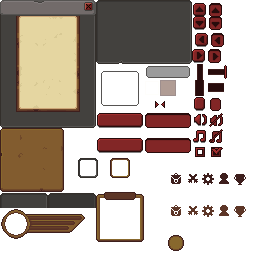
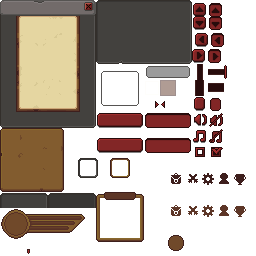
feat: retrato com busto sem animacao, fundo do anel e municao do arqueiro em pinos
Busto centralizado pela silhueta da cabeca e recortado pela abertura do anel; pinos proporcionais a aljava substituem a barra antiga.

diff --git a/client/hud_handlers.py b/client/hud_handlers.py
@@ -37,27 +37,9 @@ class HudHandlers:
             coord_surf = self.font_sm.render(coord_txt, False, (180, 180, 180))
             self.screen.blit(coord_surf, (self.screen.get_width() - coord_surf.get_width() - self._u(10), self._u(10)))
 
-        # --- Retrato (atlas, 3x): rosto + Vida / recurso / XP nas ranhuras ---
+        # --- Retrato (atlas, 3x): busto + Vida / recurso / XP nas ranhuras
+        #     (+ pinos de munição embaixo da faixa, só arqueiro) ---
         y = self._draw_portrait(combat_stats, char_stats)
-        bar_w = self._u(UI.HUD_BAR_W)
-        bar_h = self._u(UI.HUD_BAR_H)
-
-        # --- Aljava do arqueiro (fora do retrato — 3ª ranhura é a XP) ---
-        if char_stats and char_stats.class_id == "arqueiro":
-            from engine.components import Equipment as _EqHUD
-            _eq_hud = self.world.get_component(self.player_entity, _EqHUD)
-            _quiver = _eq_hud.slots.get("offhand") if _eq_hud else None
-            if _quiver and getattr(_quiver, "item_type", "") == "quiver":
-                _arrow_ratio = max(0.0, min(1.0, _quiver.arrow_count / max(1, _quiver.max_arrows)))
-                pygame.draw.rect(self.screen, (40, 30, 10),  (self._u(10), y, bar_w, bar_h))
-                pygame.draw.rect(self.screen, (200, 160, 60), (self._u(10), y, int(bar_w * _arrow_ratio), bar_h))
-                arrow_surf = self.font_sm.render(
-                    f"Aljava {_quiver.arrow_count}/{_quiver.max_arrows}", False, C_WHITE)
-                self.screen.blit(arrow_surf, (self._u(14), y))
-            else:
-                no_q_surf = self.font_sm.render("Sem aljava", False, (180, 130, 50))
-                self.screen.blit(no_q_surf, (self._u(14), y))
-            y += self._u(18)
 
         # --- Ataque CD ---
         if combat_stats.attack_cooldown_timer > 0:
@@ -198,30 +180,57 @@ class HudHandlers:
         vals.append(("xp", "Experiência", cs.current_xp, cs.xp_to_next_level))
         return vals
 
-    def _portrait_face(self, cs, r: int) -> "pygame.Surface | None":
-        """Rosto: quadrado 2r x 2r recortado da cabeça do frame idle de
-        frente, com máscara redonda (cabe na abertura do anel)."""
+    def _portrait_face(self, cs) -> "pygame.Surface | None":
+        """Busto do personagem já recortado na abertura do anel (camada do
+        tamanho da peça do retrato). Sem animação: 1º frame do idle de
+        frente (pedido do usuário). Cabeça centralizada na abertura pelo
+        próprio desenho do frame (colunas da cabeça), topo da cabeça a
+        PORTRAIT_BUST_TOP px do topo da abertura — mostra o que couber do
+        busto."""
         if cs is None:
             return None
+        key = ("bust", cs.class_id)
+        layer = self._portrait_cache.get(key)
+        if layer is not None:
+            return layer
         from engine.character_animation import get_character_frame
-        frame = get_character_frame(cs.class_id, "idle", "down", pygame.time.get_ticks())
+        from ui import ui_atlas
+        frame = get_character_frame(cs.class_id, "idle", "down", 0)
         if frame is None:
             return None
-        key = ("face", id(frame), r)
-        face = self._portrait_cache.get(key)
-        if face is None:
-            fw, fh = frame.get_size()
-            cx, cy = fw // 2, fh // 2 - fh // 8          # cabeça: um pouco acima do centro do frame
-            src = pygame.Rect(cx - r, cy - r, 2 * r, 2 * r).clip(frame.get_rect())
-            face = pygame.Surface((2 * r, 2 * r), pygame.SRCALPHA)
-            face.blit(frame, (0, 0), src)
-            mask = pygame.Surface((2 * r, 2 * r), pygame.SRCALPHA)
-            pygame.draw.circle(mask, (255, 255, 255, 255), (r, r), r)
-            face.blit(mask, (0, 0), special_flags=pygame.BLEND_RGBA_MIN)
-            if len(self._portrait_cache) > 64:
-                self._portrait_cache.clear()
-            self._portrait_cache[key] = face
-        return face
+        fw, fh = frame.get_size()
+        rows = [y for y in range(fh) if any(frame.get_at((x, y))[3] for x in range(fw))]
+        if not rows:
+            return None
+        head_top = rows[0]
+        head_cols = [x for x in range(fw)
+                     if any(frame.get_at((x, y))[3] for y in range(head_top, min(fh, head_top + 12)))]
+        head_cx = (head_cols[0] + head_cols[-1] + 1) / 2
+        mask = ui_atlas.portrait_opening_mask()
+        mb = mask.get_bounding_rect()
+        layer = pygame.Surface(mask.get_size(), pygame.SRCALPHA)
+        layer.blit(frame, (round(mb.centerx - head_cx), mb.top + ui_atlas.PORTRAIT_BUST_TOP - head_top))
+        layer.blit(mask, (0, 0), special_flags=pygame.BLEND_RGBA_MIN)
+        self._portrait_cache[key] = layer
+        return layer
+
+    def _portrait_ammo(self, cs) -> "tuple | None":
+        """(pinos, flechas, máximo) da aljava do arqueiro; None pra outras
+        classes. Pinos = proporção da aljava × PORTRAIT_AMMO_MAX (não é a
+        contagem exata — pedido do usuário)."""
+        if cs is None or cs.class_id != "arqueiro":
+            return None
+        from engine.components import Equipment as _EqAmmo
+        from ui import ui_atlas
+        eq = self.world.get_component(self.player_entity, _EqAmmo)
+        quiver = eq.slots.get("offhand") if eq else None
+        if not quiver or getattr(quiver, "item_type", "") != "quiver":
+            return (0, 0, 0)
+        ratio = max(0.0, min(1.0, quiver.arrow_count / max(1, quiver.max_arrows)))
+        pins = round(ratio * ui_atlas.PORTRAIT_AMMO_MAX)
+        if pins == 0 and quiver.arrow_count > 0:
+            pins = 1      # ainda tem flecha: nunca mostra a aljava vazia
+        return (pins, quiver.arrow_count, quiver.max_arrows)
 
     def _draw_portrait(self, combat_stats, cs) -> int:
         """Desenha o retrato no canto superior esquerdo; devolve o y logo
@@ -235,20 +244,24 @@ class HudHandlers:
         vals = self._portrait_values(combat_stats, cs)
         fills = tuple(round(g[2] * max(0.0, min(1.0, cur / max(1, mx))))
                       for g, (_k, _l, cur, mx) in zip(grooves, vals))
-        fcx, fcy, fr = ui_atlas.PORTRAIT_FACE
-        face = self._portrait_face(cs, fr)
-        key = ("portrait", fills, tuple(k for k, *_ in vals), id(face))
+        face = self._portrait_face(cs)
+        ammo = self._portrait_ammo(cs)
+        key = ("portrait", fills, tuple(k for k, *_ in vals), id(face), ammo[0] if ammo else None)
         cached = self._portrait_cache.get("portrait")
         if cached is None or cached[0] != key:
-            raw = pygame.Surface((w, h), pygame.SRCALPHA)
+            raw = piece.copy()                      # já traz o fundo do círculo
             if face is not None:
-                raw.blit(face, (fcx - fr, fcy - fr))
-            raw.blit(piece, (0, 0))
+                raw.blit(face, (0, 0))              # busto só dentro da abertura do anel
             for (gx, gy, gw, gh), (ck, *_), fw in zip(grooves, vals, fills):
                 if fw > 0:
                     top, base = self._PORTRAIT_FILL[ck]
                     raw.fill(top, (gx, gy, fw, 1))
                     raw.fill(base, (gx, gy + 1, fw, gh - 1))
+            if ammo and ammo[0] > 0:
+                pin = ui_atlas.piece_raw(ui_atlas.PORTRAIT_AMMO_PIN)
+                px0, py0 = ui_atlas.PORTRAIT_AMMO_POS
+                for i in range(ammo[0]):
+                    raw.blit(pin, (px0 + i * ui_atlas.PORTRAIT_AMMO_STEP, py0))
             cached = (key, pygame.transform.scale(raw, (w * K, h * K)))
             self._portrait_cache["portrait"] = cached
         self.screen.blit(cached[1], (x0, y0))
@@ -271,6 +284,13 @@ class HudHandlers:
                     if _rate > 0:
                         lines.append((f"+{_rate:.0f}/s", (200, 200, 200)))
                 self._pending_tooltip = (mx_, my_, f"{label}: {cur}/{mx}", lines)
+        if ammo is not None:
+            px0, py0 = ui_atlas.PORTRAIT_AMMO_POS
+            pw = (ui_atlas.PORTRAIT_AMMO_MAX - 1) * ui_atlas.PORTRAIT_AMMO_STEP + ui_atlas.PORTRAIT_AMMO_PIN[2]
+            hit = pygame.Rect(x0 + px0 * K, y0 + py0 * K, pw * K, ui_atlas.PORTRAIT_AMMO_PIN[3] * K)
+            if hit.collidepoint(mx_, my_):
+                title = f"Aljava: {ammo[1]}/{ammo[2]}" if ammo[2] else "Sem aljava"
+                self._pending_tooltip = (mx_, my_, title, [])
         return y0 + h * K + self._u(6)
 
     # ------------------------------------------------------------------

diff --git a/ui/ui_atlas.py b/ui/ui_atlas.py
@@ -312,8 +312,14 @@ MINIMAP_ICON_COUNT = 5
 MINIMAP_ICON_NUDGE = {1: (-1, 1)}       # ajuste fino por ícone (px RAW) medido no esboço — espadas 1px pra esquerda/baixo
 MINIMAP_ICON_DY   = 8                    # topo da célula do círculo = altura da moldura − 8 (círculo começa 4px acima da linha de baixo — medido no esboço exemplo_minimapa.png)
 PORTRAIT          = (0, 208, 88, 32)     # anel do retrato + faixa com 3 ranhuras
-PORTRAIT_FACE     = (16, 16, 10)         # centro x/y e raio da abertura do anel, px RAW na peça
+PORTRAIT_FACE     = (16, 16)             # um ponto DENTRO da abertura do anel (semente do preenchimento)
 PORTRAIT_SCALE    = 3                    # retrato desenhado em 3x (decisão do usuário: ranhuras legíveis)
+PORTRAIT_BUST_TOP = 2                    # px entre o topo da abertura e o topo da cabeça
+# Munição do arqueiro: "pinos" pendurados embaixo da faixa (exemplo_munição.png)
+PORTRAIT_AMMO_PIN  = (27, 249, 3, 5)     # 1 pino (contorno compartilhado com o vizinho)
+PORTRAIT_AMMO_POS  = (27, 25)            # 1º pino na peça do retrato (px RAW)
+PORTRAIT_AMMO_STEP = 2
+PORTRAIT_AMMO_MAX  = 18                  # aljava cheia = 18 pinos (proporcional, não a contagem exata)
 
 
 def piece_raw(rect: tuple) -> "pygame.Surface":
@@ -383,6 +389,35 @@ def portrait_grooves() -> list:
                 grooves.append(cur)
         _portrait_grooves = grooves[:3]
     return _portrait_grooves
+
+
+_portrait_opening: "pygame.Surface | None" = None
+
+
+def portrait_opening_mask() -> "pygame.Surface":
+    """Máscara (alpha 255 dentro) da abertura do anel do retrato: região
+    da cor de fundo do círculo ligada à semente PORTRAIT_FACE — medida do
+    próprio atlas (preenchimento), nunca um círculo fixo, pra o rosto
+    nunca cobrir a borda do anel."""
+    global _portrait_opening
+    if _portrait_opening is None:
+        src = piece_raw(PORTRAIT)
+        w, h = src.get_size()
+        sx, sy = PORTRAIT_FACE
+        bg = tuple(src.get_at((sx, sy)))
+        mask = pygame.Surface((w, h), pygame.SRCALPHA)
+        seen, stack = set(), [(sx, sy)]
+        while stack:
+            x, y = stack.pop()
+            if (x, y) in seen or not (0 <= x < w and 0 <= y < h):
+                continue
+            seen.add((x, y))
+            if tuple(src.get_at((x, y))) != bg:
+                continue
+            mask.set_at((x, y), (255, 255, 255, 255))
+            stack += [(x + 1, y), (x - 1, y), (x, y + 1), (x, y - 1)]
+        _portrait_opening = mask
+    return _portrait_opening
 
 
 HUD_SLOT_RAW = 32 + 2 * HUD_SLOT_BORDER   # moldura de slot da hotbar: ícone 32x32 + borda (decisão do usuário)

diff --git a/tests/test_hud_atlas.py b/tests/test_hud_atlas.py
@@ -118,3 +118,39 @@ def test_pecas_do_atlas_estao_onde_o_codigo_espera():
         for lit in (False, True):
             ic = ui_atlas.minimap_icon_raw(i, lit)
             assert any(ic.get_at((x, y))[3] for x in range(16) for y in range(16)), (i, lit)
+
+
+def test_abertura_do_anel_nao_inclui_a_borda():
+    m = ui_atlas.portrait_opening_mask()
+    src = ui_atlas.piece_raw(ui_atlas.PORTRAIT)
+    bg = tuple(src.get_at(ui_atlas.PORTRAIT_FACE))
+    inside = [(x, y) for x in range(m.get_width()) for y in range(m.get_height()) if m.get_at((x, y))[3]]
+    assert len(inside) > 200                                   # abertura de ~20px de diâmetro
+    assert all(tuple(src.get_at(p)) == bg for p in inside)     # só o fundo do círculo, nunca o anel
+    assert max(x for x, _ in inside) < 27                      # não vaza pra faixa
+
+
+def test_pinos_de_municao_sao_proporcionais():
+    import client.hud_handlers as hh
+    from engine.world import World
+    from engine.components import CharacterStats, Equipment, Item
+
+    class _Fx(hh.HudHandlers):
+        def __init__(self, cls, arrows, max_arrows=40):
+            self.world = World()
+            self.player_entity = self.world.create_entity()
+            self.world.add_component(self.player_entity, CharacterStats(name="A", class_id=cls))
+            eq = Equipment()
+            if max_arrows:
+                q = Item("Aljava", "quiver", "offhand")
+                q.item_type, q.arrow_count, q.max_arrows = "quiver", arrows, max_arrows
+                eq.slots["offhand"] = q
+            self.world.add_component(self.player_entity, eq)
+
+    cs = lambda fx: fx.world.get_component(fx.player_entity, CharacterStats)
+    full = _Fx("arqueiro", 40); assert full._portrait_ammo(cs(full))[0] == ui_atlas.PORTRAIT_AMMO_MAX
+    half = _Fx("arqueiro", 20); assert half._portrait_ammo(cs(half))[0] == ui_atlas.PORTRAIT_AMMO_MAX // 2
+    one = _Fx("arqueiro", 1); assert one._portrait_ammo(cs(one))[0] == 1      # ainda tem flecha
+    empty = _Fx("arqueiro", 0); assert empty._portrait_ammo(cs(empty))[0] == 0
+    none = _Fx("arqueiro", 0, max_arrows=0); assert none._portrait_ammo(cs(none)) == (0, 0, 0)
+    mage = _Fx("mago", 10); assert mage._portrait_ammo(cs(mage)) is None

diff --git a/arquitetura/HISTORICO_FEATURES.md b/arquitetura/HISTORICO_FEATURES.md
@@ -5889,3 +5889,26 @@ breve") / ranking; aceso = botão apertado OU janela aberta.
   buff bar 16px à esquerda do mapa.
 
 **Teste**: `tests/test_hud_atlas.py`. Validação em jogo pendente.
+
+## 76. Retrato: busto sem animação, fundo do anel e munição do arqueiro em pinos (22/10/2026)
+
+Retorno do usuário sobre §75: cabeça mal centralizada no retrato; sem
+animação (só o 1º frame do idle); mostrar o busto (o que couber no anel);
+fundo novo do círculo no atlas; elemento novo de munição (pino em
+(27,249), exemplo em `assets/content/exemplo_munição.png`).
+
+- Busto: `client/hud_handlers.py::_portrait_face` — 1º frame do idle de
+  frente, cabeça centralizada pela própria silhueta (colunas das 12
+  primeiras linhas), topo da cabeça a `PORTRAIT_BUST_TOP` do topo da
+  abertura; recortado pela máscara da abertura do anel
+  (`ui_atlas.portrait_opening_mask`, preenchimento a partir de
+  `PORTRAIT_FACE` sobre a cor de fundo do círculo — nunca cobre o anel).
+  Cacheado por classe (sem animação = 1 montagem só).
+- Munição (só arqueiro): pinos pendurados embaixo da faixa (posição/passo
+  medidos no exemplo: 1º em (27,25) da peça, de 2 em 2px, 18 = aljava
+  cheia). Quantidade PROPORCIONAL à aljava (`round(flechas/máx × 18)`,
+  mínimo 1 enquanto houver flecha); tooltip com o número exato ou "Sem
+  aljava". Substitui a barra de aljava antiga abaixo do retrato.
+
+**Teste**: `tests/test_hud_atlas.py` (abertura do anel, pinos
+proporcionais).

diff --git a/arquitetura/ATLAS_UI.md b/arquitetura/ATLAS_UI.md
@@ -119,7 +119,8 @@ inteira desloca meio tile quando a sobra é ímpar; HISTORICO_BUGS.md §98).
 
 | Peça | Atlas (px) | Constante | Uso |
 |---|---|---|---|
-| Retrato | (0,208) 88x32 | `PORTRAIT` | Anel + faixa com 3 ranhuras (Vida/recurso/XP), desenhado em 3x; ranhuras medidas por `portrait_grooves()`. |
+| Retrato | (0,208) 88x32 | `PORTRAIT` | Anel (com fundo) + faixa com 3 ranhuras (Vida/recurso/XP), desenhado em 3x; ranhuras por `portrait_grooves()`, abertura do anel por `portrait_opening_mask()`. |
+| Pino de munição | (27,249) 3x5 | `PORTRAIT_AMMO_PIN` | Arqueiro: pinos embaixo da faixa a partir de (27,25) da peça, passo 2px, 18 = aljava cheia (proporcional). |
 | Moldura do minimapa | (96,192) 48x50 | `MINIMAP_FRAME` | Barra do nome embutida no topo; cresce por `stretch_raw` (coluna 24 / linha 28 repetidas). |
 | Círculo dos ícones | (168,232) 16x19 | `MINIMAP_ICON_CIRCLE` | Fundo de cada ícone; célula no topo = altura da moldura − 8 (círculo 4px acima da linha de baixo, medido no esboço). Ícone na mesma célula; espadas com ajuste fino `MINIMAP_ICON_NUDGE`. |
 | Ícones do minimapa | (168,168) / (168,200) | `MINIMAP_ICON_ROWS` | 5 células de 16px: apagados / acesos (bolsa, espadas, engrenagem, pessoa, troféu). |

diff --git a/arquitetura/INDICE.md b/arquitetura/INDICE.md
@@ -329,3 +329,4 @@
 - [21/10/2026] (bug) Botões centralizados com // 2 ficavam meio tile à esquerda — tags: ui, atlas, botao, centralizar — HISTORICO_BUGS.md §98
 - [21/10/2026] (feature) HUD no atlas: moldura do minimapa com nome e ícones, retrato com rosto e barras, molduras da hotbar — tags: ui, atlas, hud, minimapa, retrato, hotbar — HISTORICO_FEATURES.md §75
 - [21/10/2026] (bug) Atlas reorganizado: botões lidos das linhas antigas; ícones do minimapa 2px altos — tags: ui, atlas, botao, minimapa — HISTORICO_BUGS.md §99
+- [22/10/2026] (feature) Retrato: busto sem animação centralizado, fundo do anel, munição do arqueiro em pinos — tags: ui, atlas, hud, retrato, arqueiro, aljava — HISTORICO_FEATURES.md §76
